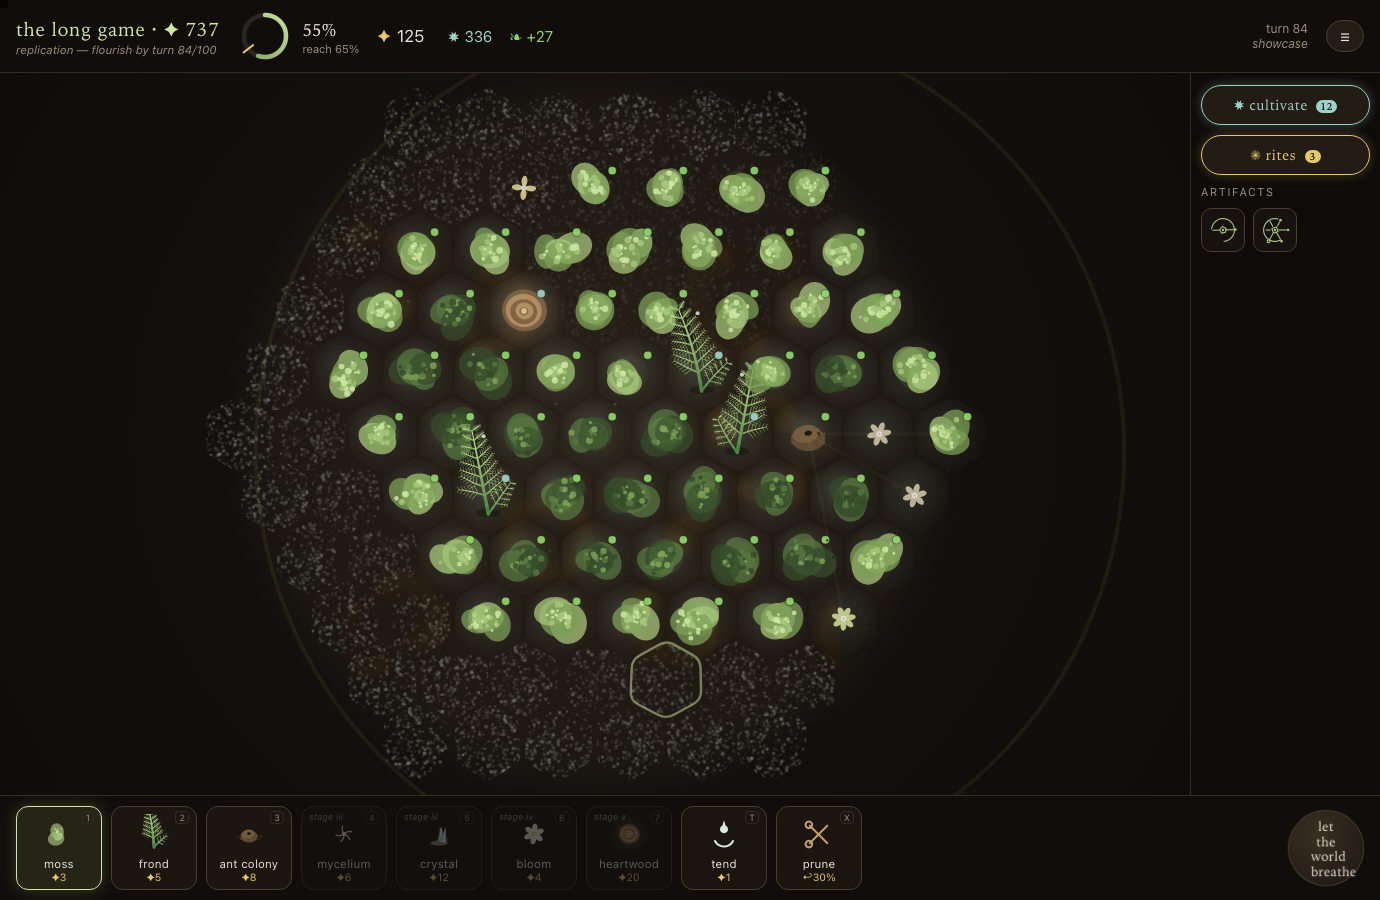
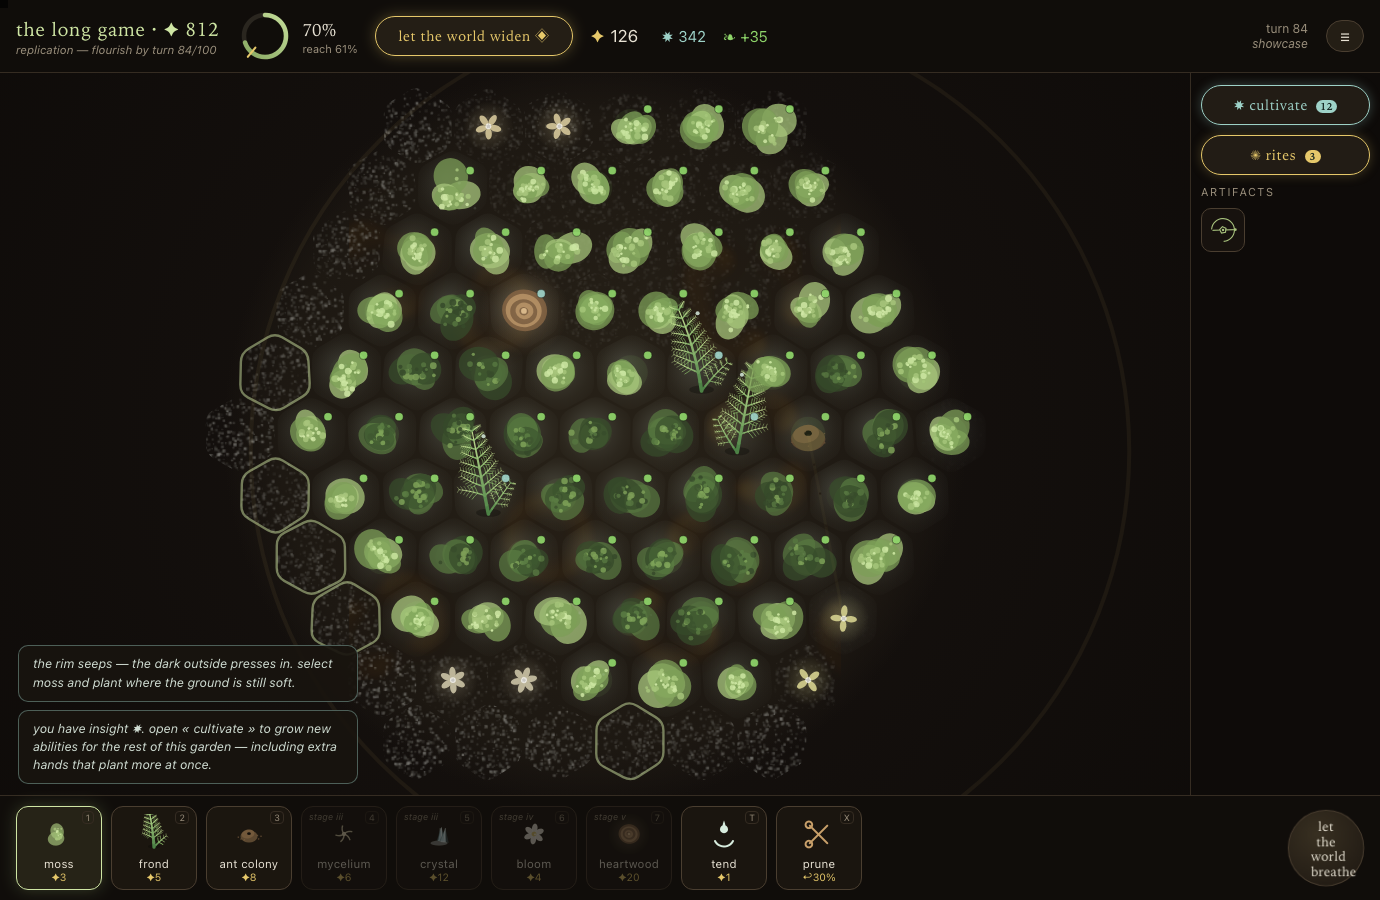
emergence QA batch 4: established beds glow in their diet colour
Legibility audit: flora could get lost amid the moss. An established bed now
casts a faint radial glow in its species' diet colour (like the heartwood's),
so emergent life reads as special; pioneers stay quiet until they take.
Slightly larger established size too.

harness ALL PASS / 24-24.

diff --git a/loophole/js/render.js b/loophole/js/render.js
@@ -486,8 +486,15 @@
       const r = rngOf('flora' + (sp ? sp.id : 0));
       const petals = 4 + r.i(4);
       const est = p.est;
-      const size = s * (est ? 0.33 : 0.21) * (0.85 + Math.min(p.age || 0, 6) * 0.025);
+      const size = s * (est ? 0.36 : 0.22) * (0.85 + Math.min(p.age || 0, 6) * 0.025);
       cx.save();
+      /* an established bed glows faintly in its diet colour — emergent life reads as special,
+         not lost amid the moss; pioneers stay quiet until they take */
+      if (est) {
+        const g = cx.createRadialGradient(0, 0, 0, 0, 0, size * 1.7);
+        g.addColorStop(0, rgba(col, 0.26)); g.addColorStop(1, rgba(col, 0));
+        cx.fillStyle = g; cx.beginPath(); cx.arc(0, 0, size * 1.7, 0, TAU); cx.fill();
+      }
       cx.rotate(r.f() * TAU + (p.age || 0) * 0.025);
       for (let i = 0; i < petals; i++) {
         const a = TAU * i / petals;
